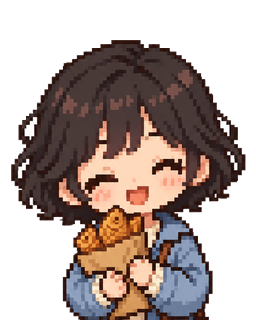
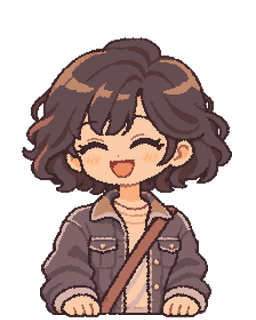
art: 25번 54번 일반 손님 walkin_1 새 그림 적용 — walkin_2~4와 같은 방식
- tools/apply_26_home_art.py: walkin_1을 3.3 원본 잘라 쓰기 대신
  54_walkin1/(사용자 승인 그림)에서 walkin_2~4와 같은 방식
  (256×320 축소·투명도 정리·기본 표정 아래 여백 맞춤)으로 넣음.
  다른 손님 33장은 그대로 다시 만들어져 바뀌지 않음.
- assets/images/customer/walkin_1_<normal·happy·sad>.png 교체(픽셀 편집 없음)
- 25번 54번·6번 '적용 완료', MASTER 손님 줄 고침

diff --git a/1_app_development/tools/apply_26_home_art.py b/1_app_development/tools/apply_26_home_art.py
@@ -12,10 +12,9 @@ Run it in 1_app_development. Outputs:
   walkin_2..4 come from 06_customers_v2/ (1122x1402, the same 0.8 shape):
   premultiplied Lanczos down, alpha snapped (no halo), and every expression
   moved by the normal face's offset so the body's cut sits on the bottom
-  edge and the three expressions line up. walkin_1 is the original customer
-  of 3.3 customer/ (white background): order.png is its normal and sad face
-  (there is no sad pose), receive.png its happy one, cut from the head to
-  the waist and fitted the same way.
+  edge and the three expressions line up. walkin_1 comes from 54_walkin1/
+  (25번 54번, redrawn in the same style, 1120x1400, the same 0.8 shape) and
+  is fitted the same way.
 * assets/images/bg_low/<id>.png (335x762, opaque): the 14 backgrounds with
   the stall lowered to the towel (20_home_background/; clear from clear-v2,
   "v2 우선"). Each is scaled to the 335 width, then moved up or down so the
@@ -33,13 +32,11 @@ from pathlib import Path
 
 import numpy as np
 from PIL import Image
-from scipy import ndimage as nd
 
 ROOT = Path(__file__).resolve().parent.parent
 REPO = ROOT.parent
 CUSTOMER_DIR = ROOT / "assets/images/customer"
 LOW_DIR = ROOT / "assets/images/bg_low"
-ORIGINAL_CUSTOMER = REPO / "3_original_images_and_visual_references/3.3_additional_character_and_background_images/customer"
 
 GUEST_SIZE = (256, 320)
 NAMED = ["npc_yunha", "npc_doyun", "npc_makrye", "npc_seojin", "npc_taeo",
@@ -84,10 +81,14 @@ def _bottom_gap(img):
     return GUEST_SIZE[1] - box[3] if box else 0
 
 
+# Each guest's generated folder (walkin_1 was redrawn later, 25번 54번).
+GUEST_FOLDER = {"walkin_1": "54_walkin1"}
+
+
 def generated_guests(src):
     made = {}
-    folder = src / "06_customers_v2"
-    for gid in NAMED + WALKINS:
+    for gid in NAMED + ["walkin_1"] + WALKINS:
+        folder = src / GUEST_FOLDER.get(gid, "06_customers_v2")
         normal = Image.open(folder / f"{gid}_normal.png").convert("RGBA")
         dy = _bottom_gap(premultiplied_resize(normal, GUEST_SIZE))
         for mood in MOODS:
@@ -96,48 +97,8 @@ def generated_guests(src):
     return made
 
 
-def _cut_white(path):
-    """The original customer on a transparent background: the near-white
-    area joined to the border becomes transparent."""
-    a = np.asarray(Image.open(path).convert("RGBA")).copy()
-    white = (a[..., :3].min(2) > 236)
-    labels, _ = nd.label(white)
-    border = set(np.unique(np.concatenate([labels[0], labels[-1], labels[:, 0], labels[:, -1]]))) - {0}
-    bg = np.isin(labels, list(border))
-    bg = nd.binary_dilation(bg, iterations=1) & (a[..., :3].min(2) > 200)
-    a[bg, 3] = 0
-    return Image.fromarray(a, "RGBA")
-
-
-def walkin_one():
-    """walkin_1 from the original full-body poses: head to waist, centred
-    on the head, the 0.8 shape of the other guests."""
-    made = {}
-    poses = {"normal": "order.png", "happy": "receive.png", "sad": "order.png"}
-    cut = {name: _cut_white(ORIGINAL_CUSTOMER / name) for name in set(poses.values())}
-    # One crop box from the order pose so the poses share the body's place.
-    ref = cut["order.png"]
-    l, t, r, b = ref.getchannel("A").getbbox()
-    height = (b - t) * .64
-    width = height * GUEST_SIZE[0] / GUEST_SIZE[1]
-    # The head's centre: the middle of the top fifth of the figure.
-    alpha = np.asarray(ref)[..., 3]
-    head = alpha[t:int(t + (b - t) * .2)]
-    xs = np.where(head.max(0) > 0)[0]
-    cx = (xs.min() + xs.max()) / 2
-    top = t - height * .05
-    box = (cx - width / 2, top, cx + width / 2, top + height)
-    pad = 200
-    for mood, name in poses.items():
-        img = Image.new("RGBA", (cut[name].width + 2 * pad, cut[name].height + 2 * pad))
-        img.paste(cut[name], (pad, pad))
-        small = premultiplied_resize(img, GUEST_SIZE, box=tuple(v + pad for v in box))
-        made[f"walkin_1_{mood}"] = snap_alpha(small)
-    return made
-
-
 def customers(src):
-    made = {**generated_guests(src), **walkin_one()}
+    made = generated_guests(src)
     CUSTOMER_DIR.mkdir(parents=True, exist_ok=True)
     for name, img in made.items():
         img.save(CUSTOMER_DIR / f"{name}.png", optimize=True)

diff --git a/2_development_plans_and_checklists/2.1_development_specs_tasks_and_progress/25_필요한그림프롬프트.md b/2_development_plans_and_checklists/2.1_development_specs_tasks_and_progress/25_필요한그림프롬프트.md
@@ -60,7 +60,7 @@ PIXEL RULE: crisp pixel art on a fixed grid — 1 art pixel = <N> px on the deli
 | 3 | 속 칠 질감 3맛(팥·슈크림·초코) | **생성·적용 완료** (2026-11-17) |
 | 4 | 반죽·속 넘침 흘러내림 | **생성·적용 완료** (2026-11-17) |
 | 5 | 원 그려 뒤집기 안내 고리·회전 화살표 | **생성·적용 완료** (2026-11-17) |
-| 6 | 매대 앞 손님(네임드 8명 + 일반 손님 3종 추가) | **완료** (2026-11-18, 26번 4-1단계: `tools/apply_26_home_art.py --only customers`로 36장 적용. walkin_1은 3.3 원본을 잘라 씀 — 그림체가 달라 보이면 다시 요청 가능 → 2026-11-20 도트가 굵고 캔버스를 꽉 채워 **54번으로 다시 그림 주문**) |
+| 6 | 매대 앞 손님(네임드 8명 + 일반 손님 3종 추가) | **완료** (2026-11-18, 26번 4-1단계: `tools/apply_26_home_art.py --only customers`로 36장 적용. walkin_1은 3.3 원본을 잘라 씀 — 그림체가 달라 보이면 다시 요청 가능 → 2026-11-20 도트가 굵고 캔버스를 꽉 채워 **54번으로 다시 그림 주문** → 2026-11-21 54번 새 그림 적용 완료) |
 | 7 | 숙련된 붕어빵 틀(6구) 뚜껑 — 잠김(닫힘·불 꺼짐) / 열림 | **완료** (2026-11-19, 26번 4-2단계: `tools/apply_26_stoves.py`로 닫힌 판 4장(941×470)·열린 판 4장(941×700, 판은 기존 `stove_empty` 그대로 + 생성본의 뚜껑만) 적용. 열린 뚜껑은 홈에서 판매 카운터 뒤에 대부분 가려짐 → 2026-11-19 시안 확인 답 'A 낮게 젖힌 뚜껑'으로 **34번에 다시 그리기 주문**) |
 | 8 | 사장님 머리 모양 3종 × 남녀, 피부톤 2·3 | **완료** (2026-11-18, 26번 4-4: 3.3 원본을 `tools/avatar_layers.py`로 적용 — 머리는 입은 모습 레이어, 피부톤은 색 치환) |
 | 9 | 사장님 옷 레이어(앞치마·바지·모자 등 게임에 없는 것) | **완료** (2026-11-18, 26번 4-4: 3.3 원본 남녀 전부 적용, 기본 앞치마 포함) |
@@ -102,7 +102,7 @@ PIXEL RULE: crisp pixel art on a fixed grid — 1 art pixel = <N> px on the deli
 | 51 | brownpants 칸 아이콘 다시 그리기 — 짙은 갈색 골덴 일자 바지 | **적용 완료** (2026-11-20, 26번 3차 AV2) — `tools/avatar_v2.py icons`로 `cosmetic_icons/brownpants.png`(64×64) 교체, 54·64·72px 확인. 46번 절 '51번 적용' |
 | 52 | 모자9 × 머리5 × 남녀 — 78장 | 새 생성 0장·53-0 바탕 확정 뒤 재파일럿 4장 대기. 이전 실패4장은 `52_hat_on_hair/v1/rejected_first_pilot/girl/` 보관 |
 | 53 | 원본 그대로 깨끗한 착용 레이어 — 바탕·머리·앞치마 파일럿 | **기존18장 불통과·적용 금지 유지. 남자 입만 수정 통과, 여자 입 격자 처리 추가 확인 대기** — 53_clean_layers/mouth_only/. 상세53절 확인 요청 참조 |
-| 54 | 일반 손님 walkin_1 3표정 | **사용자 승인(2026-11-21) — 게임에 넣음** |
+| 54 | 일반 손님 walkin_1 3표정 | **적용 완료** (2026-11-21, `tools/apply_26_home_art.py --only customers`로 walkin_2~4와 같은 방식 적용) |
 | 55 | 사장님 오른쪽3/4 단독시안 여자기본1장 | **11항목 자체검수 통과·사용자확인대기** — 55_three_quarter/girl/default.png (최종격자888×1776). 나머지승인대기 |
 | 56 | 불이 보이는 화로 위 붕어빵 기계 | **눕힌 틀 수정 시안1장 생성·확인 대기** — 56_mold_hearth/. 4px격자 통과, 승인 전13레이어 대기 |
 | 57 | 앱 아이콘 — 사장님이 붕어빵 봉투를 안은 모습 | 새 3안 생성됨·사용자 선택 대기 — `57_app_icon/` |
@@ -374,7 +374,7 @@ opaque, no arrowheads.
 | 그림 내용 | [21번 문서](21_손님캐릭터와관계시스템.md) 3장 "외모와 행동 설정" 그대로. 사장님 그림(`avatar/girl/base.png`)과 같은 치비 도트 그림체(큰 머리, 갈색 외곽선) |
 | 화면 쓰임(예정) | 판매 카운터(빨간 행주 윗변) 바로 위, 매대 뒤에 서 있는 모습. 정확한 크기·위치는 26번 녹화 피드백 단계에서 시안으로 정함 |
 | 상태 | **완료** (2026-11-18, 26번 4-1단계) — 생성 원본 `4_image_generation_results_and_backups/26_feedback_generated/06_customers_v2/`(적용한 33장과 프롬프트만 `git add -f`) |
-| 적용 (2026-11-18, 26번 4-1단계) | `python tools/apply_26_home_art.py ../4_image_generation_results_and_backups/26_feedback_generated --only customers --preview`(`1_app_development`에서). 네임드 8명·walkin_2~4: 1122×1402 → 256×320 투명도 곱한 Lanczos 축소 + 투명도 정리(할로 없음), **기본 표정의 몸 아래 여백만큼 세 표정을 같이 옮겨** 몸 잘림이 그림 아래끝에 오고 세 표정이 같은 자리. walkin_1: 3.3 원본 `customer/order.png`(기본·아쉬움 — 아쉬운 자세 원본이 없어 기본과 같음)·`receive.png`(기쁨)의 흰 배경을 지우고 머리~허리를 0.8 비율로 잘라 맞춤. 미리보기 `1_app_development/build/apply_26_home_art_preview.png`. 검수: 세 표정 겹쳐 보기에서 몸·옷 위치 같음, 민재 가방끈·숨결은 그대로 둠(화면 크기에서 거슬리지 않음). **남은 것**: walkin_1은 원본 그림체(굵은 도트, 크게 잘린 얼굴)라 다른 손님과 조금 달라 보임 — 원하면 `walkin_1_<normal·happy·sad>`를 이 항목 공통 프롬프트로 새로 생성(256×320 규칙 같음) |
+| 적용 (2026-11-18, 26번 4-1단계) | `python tools/apply_26_home_art.py ../4_image_generation_results_and_backups/26_feedback_generated --only customers --preview`(`1_app_development`에서). 네임드 8명·walkin_2~4: 1122×1402 → 256×320 투명도 곱한 Lanczos 축소 + 투명도 정리(할로 없음), **기본 표정의 몸 아래 여백만큼 세 표정을 같이 옮겨** 몸 잘림이 그림 아래끝에 오고 세 표정이 같은 자리. walkin_1: 3.3 원본 `customer/order.png`(기본·아쉬움 — 아쉬운 자세 원본이 없어 기본과 같음)·`receive.png`(기쁨)의 흰 배경을 지우고 머리~허리를 0.8 비율로 잘라 맞춤. 미리보기 `1_app_development/build/apply_26_home_art_preview.png`. 검수: 세 표정 겹쳐 보기에서 몸·옷 위치 같음, 민재 가방끈·숨결은 그대로 둠(화면 크기에서 거슬리지 않음). **2026-11-21 바뀜**: walkin_1은 54번에서 다시 그린 `54_walkin1/walkin_1_<표정>.png`(1120×1400)를 walkin_2~4와 같은 방식(256×320 축소, 기본 표정 아래 여백 맞춤)으로 넣음 — 3.3 원본 잘라 쓰기는 없앰 |
 | 추가 확인 요청 | 33장을 256×320으로 맞춘 뒤 세 표정의 몸·옷·위치를 겹쳐 비교해 주세요. 얼굴 외 영역은 기본 표정으로 고정할 수 있는지 확인하고, 아래 투명 여백·몸 잘림 위치도 맞춰 주세요. `walkin_1`의 기존 stand/order/receive 원본에서 사용할 잘라내기 범위와 표정 대응을 확인해 주세요. 민재 생성본의 추가 가방끈·숨결 표시도 정리 대상인지 검수해 주세요. |
 
 ### Prompt — shared (use with each customer below)
@@ -2216,7 +2216,8 @@ or over one shoulder; bangs and side hair as in the default long hair.
 | 1차 결과 — 사용자 확인 (2026-11-21) | **도트 느낌만 다시.** 디자인(단발 곱슬·청재킷·크로스백·표정)은 **그대로** 두고, 도트 느낌을 기존 손님 3명(walkin_2 안경 아저씨·walkin_3 교복 학생·walkin_4 헌팅캡 할아버지)과 똑같이: 같은 도트 크기, 같은 외곽선 굵기·색(짙은 갈색, 지금 것은 더 짙고 굵어 보임), 같은 명암 단계 수와 부드러운 색감, 머리카락을 가닥 하나하나가 아니라 기존 3명처럼 큰 덩어리와 몇 줄의 하이라이트로. 확인: 4명을 게임 크기(256×320)로 나란히 놓았을 때 한 사람만 다르게 보이지 않을 것 |
 | 도트 질감 수정 결과·추가 확인 요청 (2026-11-21) | normal 먼저 스타일 비교 후 같은 normal에서 happy·sad 얼굴 편집으로 3장 생성. 기존 손님처럼 큰 머리 덩어리·간결한 하이라이트·짙은 갈색 외곽선·차분한 색감으로 개선, 256 비교 시 스타일 검수 통과. 3장 모두1120×1400=224×280칸×5px, 원본3종 고정32색·알파0/255·셀내색차0 검증. **전체 조건 통과는 아님:** 폭 normal81.25%·happy/sad82.14%로 목표64~74% 초과, 머리윗여백8.21~8.57%. 몸·손 자세는 시각상 유지되나 얼굴 밖 y≥840 가시영역 픽셀차 happy26.02%·sad27.77%, bbox 좌/위 -5px·우 +5px로 정확 동일성 미충족. check/compare_256.png·overlay.png·nonface_style2_qa.json·grid_style2_validation.json 확인 후 승인 또는 수정 내용을 이 표에 남겨 주세요. 새 raw/prompt/meta 보존, 이전 raw는 v1/raw_before_style2/. |
 | 사용자 승인 (2026-11-21) | **승인.** 다시 그린 3장(기본·기쁨·아쉬움)을 게임에 넣음 |
-| 상태 | **사용자 승인(2026-11-21) — 게임에 넣음** |
+| 게임 적용 (2026-11-21) | `tools/apply_26_home_art.py`의 walkin_1을 `54_walkin1/`에서 walkin_2~4와 같은 방식(1120×1400 → 256×320 투명도 곱한 Lanczos 축소·투명도 정리, 기본 표정 아래 여백만큼 세 표정을 같이 옮김)으로 바꿔 `assets/images/customer/walkin_1_<normal·happy·sad>.png` 교체(픽셀 편집 없음). 256×320에서 그린 부분 가로 약 210px(82%)·머리 꼭대기 위에서 약 37px — walkin_2(191px)보다 조금 넓지만 4명을 나란히 볼 때 도트 느낌은 같음. 전후 비교 `C:\Users\이소이\Desktop\26번_시안_확인\4차\art54\` |
+| 상태 | **적용 완료** (2026-11-21) |
 
 ### Prompt — 54 (one image per expression)
 

diff --git a/2_development_plans_and_checklists/2.1_development_specs_tasks_and_progress/2.1.3_legacy_code_policies_and_online_setup/MASTER.md b/2_development_plans_and_checklists/2.1_development_specs_tasks_and_progress/2.1.3_legacy_code_policies_and_online_setup/MASTER.md
@@ -1171,7 +1171,7 @@
 | 붕어빵 | `fish/redbean.png`, 무늬는 `fish/redbean@<pattern>.png` |
 | 토핑 | `topping/<id>.png` |
 | 배경 | `bg/<id>.png`, 밤 `bg/<id>_night.png`. 매대를 행주 높이로 내린 새 구도 배경 `bg_low/<id>.png` 14장(335×762, `tools/apply_26_home_art.py --only backgrounds`, 25번 20번, 26번 4-1단계) |
-| 손님 | `customer/<npc_* 8명·walkin_1~4>_<normal·happy·sad>.png`(256×320 RGBA, 몸 아래끝이 그림 아래끝, 세 표정 같은 자리. `tools/apply_26_home_art.py --only customers`, 25번 6번. walkin_1은 3.3 원본 `customer/order·receive`를 잘라 씀) — 무기명 손님 그림은 주문 id로 4종 중 하나(`guestArtId`) |
+| 손님 | `customer/<npc_* 8명·walkin_1~4>_<normal·happy·sad>.png`(256×320 RGBA, 몸 아래끝이 그림 아래끝, 세 표정 같은 자리. `tools/apply_26_home_art.py --only customers`, 25번 6번. walkin_1은 25번 54번에서 다시 그린 `54_walkin1/`을 같은 방식으로 맞춤) — 무기명 손님 그림은 주문 id로 4종 중 하나(`guestArtId`) |
 | 화로 | `stove/<id>.png`, 빈 굽는 판 `stove_empty/<id>.png`·붕어빵만 `stove_fish/<id>.png`(941×470, `tools/apply_25_art.py`), 닫히고 불 꺼진 판 `stove_closed/<id>.png`(941×470)·열린 판 `stove_open/<id>.png`(941×700, 아래 941×470 = `stove_empty`와 같은 픽셀, 그 위에 뚜껑)(25번 7번 → 2026-11-19 25번 34번 낮게 젖힌 뚜껑, `tools/apply_26_stoves.py --low`, 26번 4-2단계) |
 | 장식 | `deco/<id>.png` (위치는 `night_stall_painter.dart` `decorationAt`) |
 | 등불 | `stall/postlamp_<색>.png` (id는 `<색>lamp`) |
